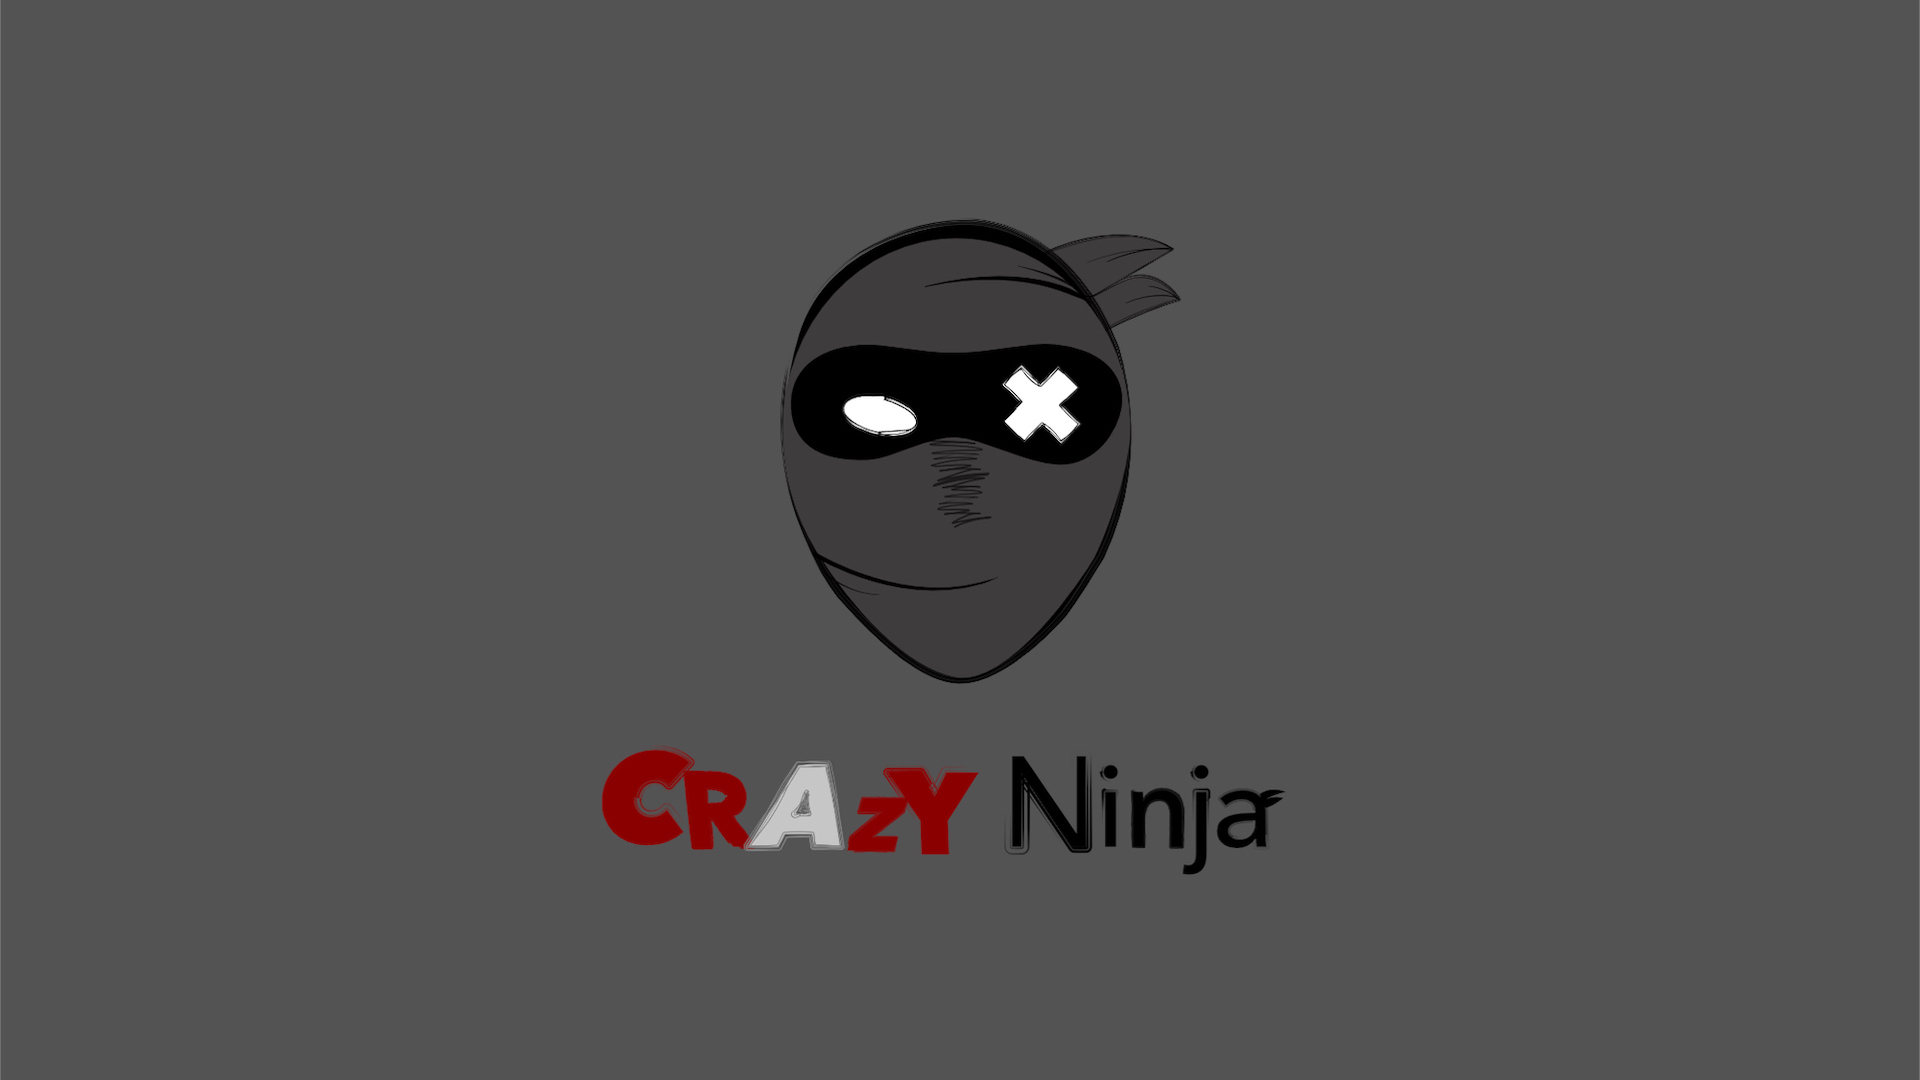
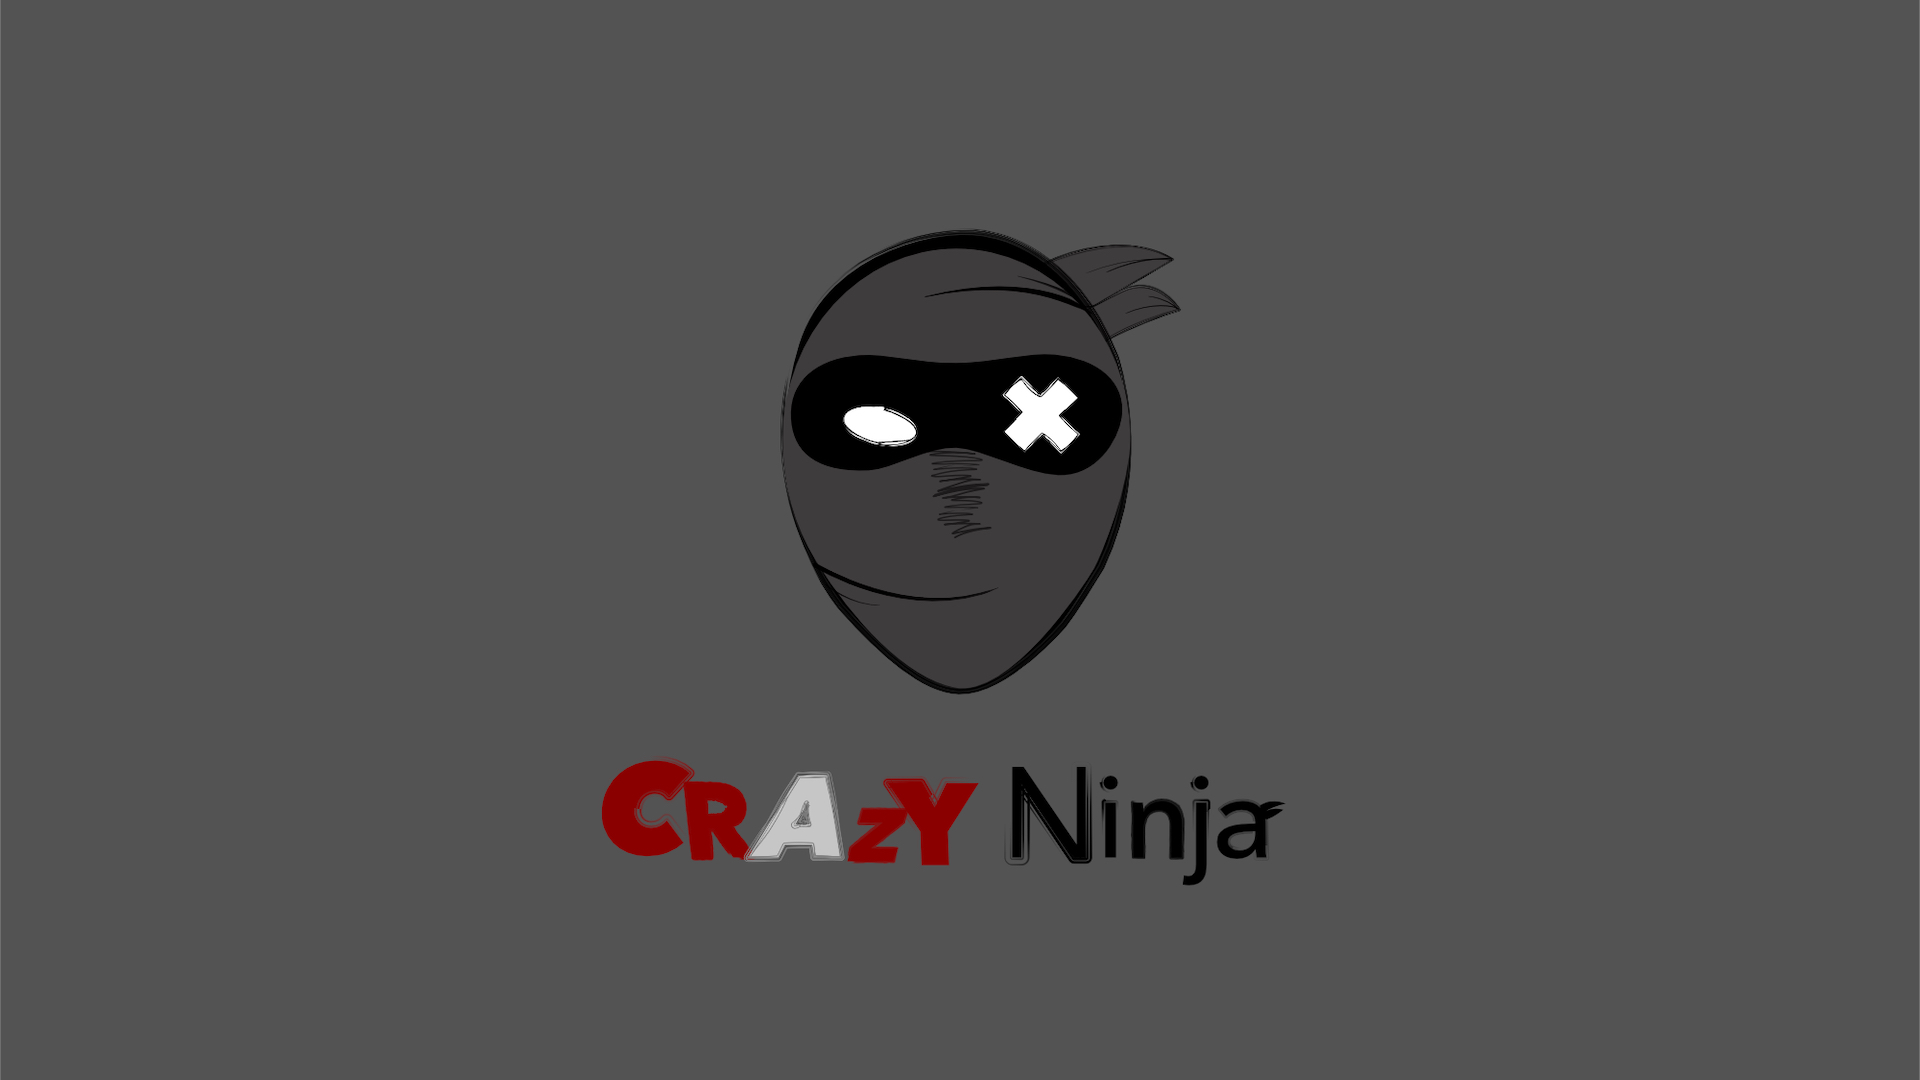
résumé ninja

diff --git a/index.html b/index.html
@@ -392,8 +392,7 @@ Bien qu'excentrée, le regard est attiré par cette petite embarcation
     <div class="modal-content">
       <div class="services">
         <button type="button" class="close" data-dismiss="modal" aria-hidden="true">&times;</button>
-        <h4 class="modal-title text-center">
-          
+        <h4 class="modal-title text-center">Un logo dans un style bande-dessinée/modern comics          
         </h4>
       </div>
       <div class="modal-body">
